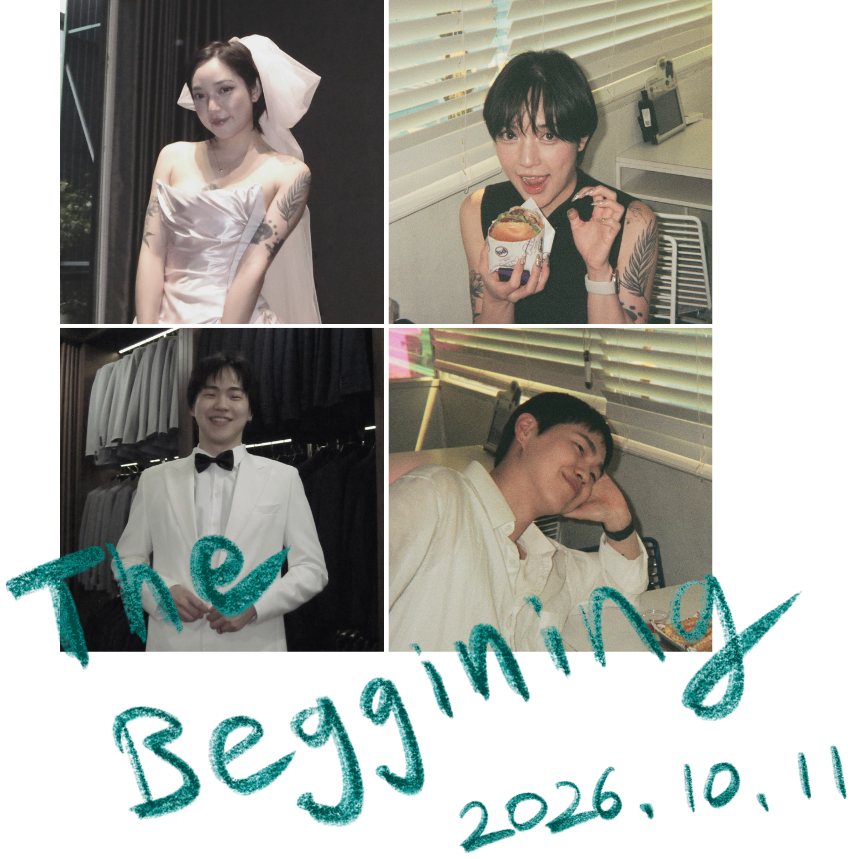
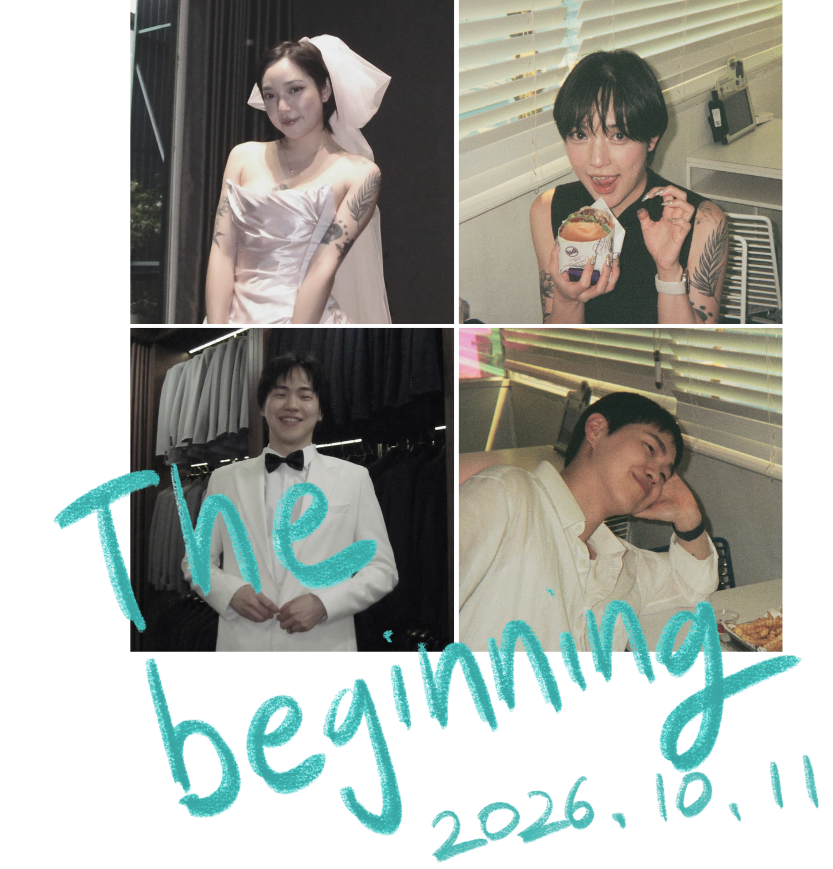
메인 이미지 수정, 베트남에서는 계좌 번호 비노출

diff --git a/index.html b/index.html
@@ -165,7 +165,7 @@
          href="https://www.google.com/maps/search/?api=1&query=Sheraton%20Hanoi%20Hotel%20K5%20Xuan%20Dieu%20Tay%20Ho%20Hanoi">GOOGLE MAP ↗</a>
     </div>
 
-    <details class="gift">
+    <details class="gift" id="giftSection">
       <summary data-t="gift.head"></summary>
       <div class="giftbody">
         <p class="giftnote" data-t="gift.note"></p>
@@ -546,6 +546,8 @@ function renderText(){
   const showTravel = lang !== 'vi';
   document.getElementById('travelHeading').style.display = showTravel ? '' : 'none';
   document.getElementById('travelCards').style.display = showTravel ? '' : 'none';
+
+  document.getElementById('giftSection').style.display = lang !== 'vi' ? '' : 'none';
 }
 
 function renderLists(){

diff --git a/style.css b/style.css
@@ -132,7 +132,7 @@ p{margin:0 0 13px}
 
 /* our story */
 .stamps{max-width:190px;margin:0 auto 18px 0;margin-left:-8px}
-.storycover{max-width:380px;width:78%;margin:0 auto 40px}
+.storycover{max-width:380px;width:78%;margin:0 auto 40px;position:relative;left:-25px}
 .storyvideo{max-width:330px;width:100%;margin:0px auto 40px;display:block;mix-blend-mode:multiply}
 .slider{position:relative}
 .viewport{overflow:hidden}
